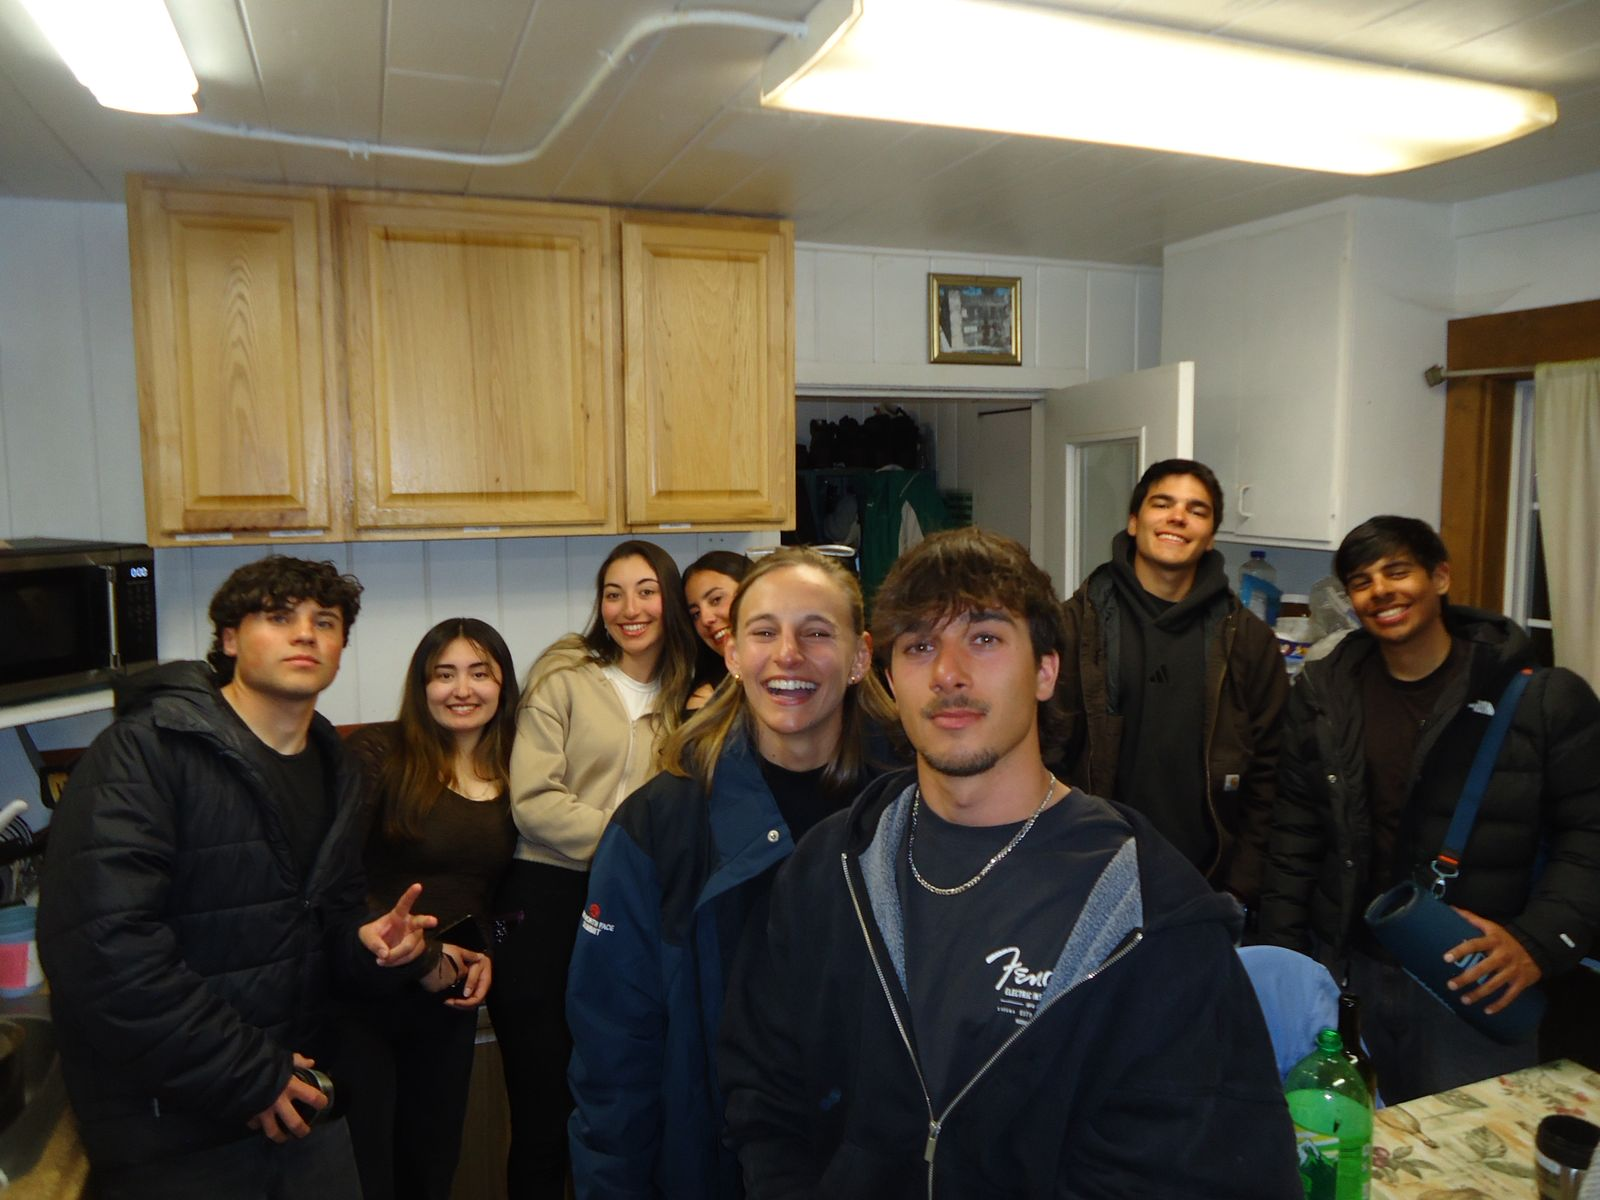
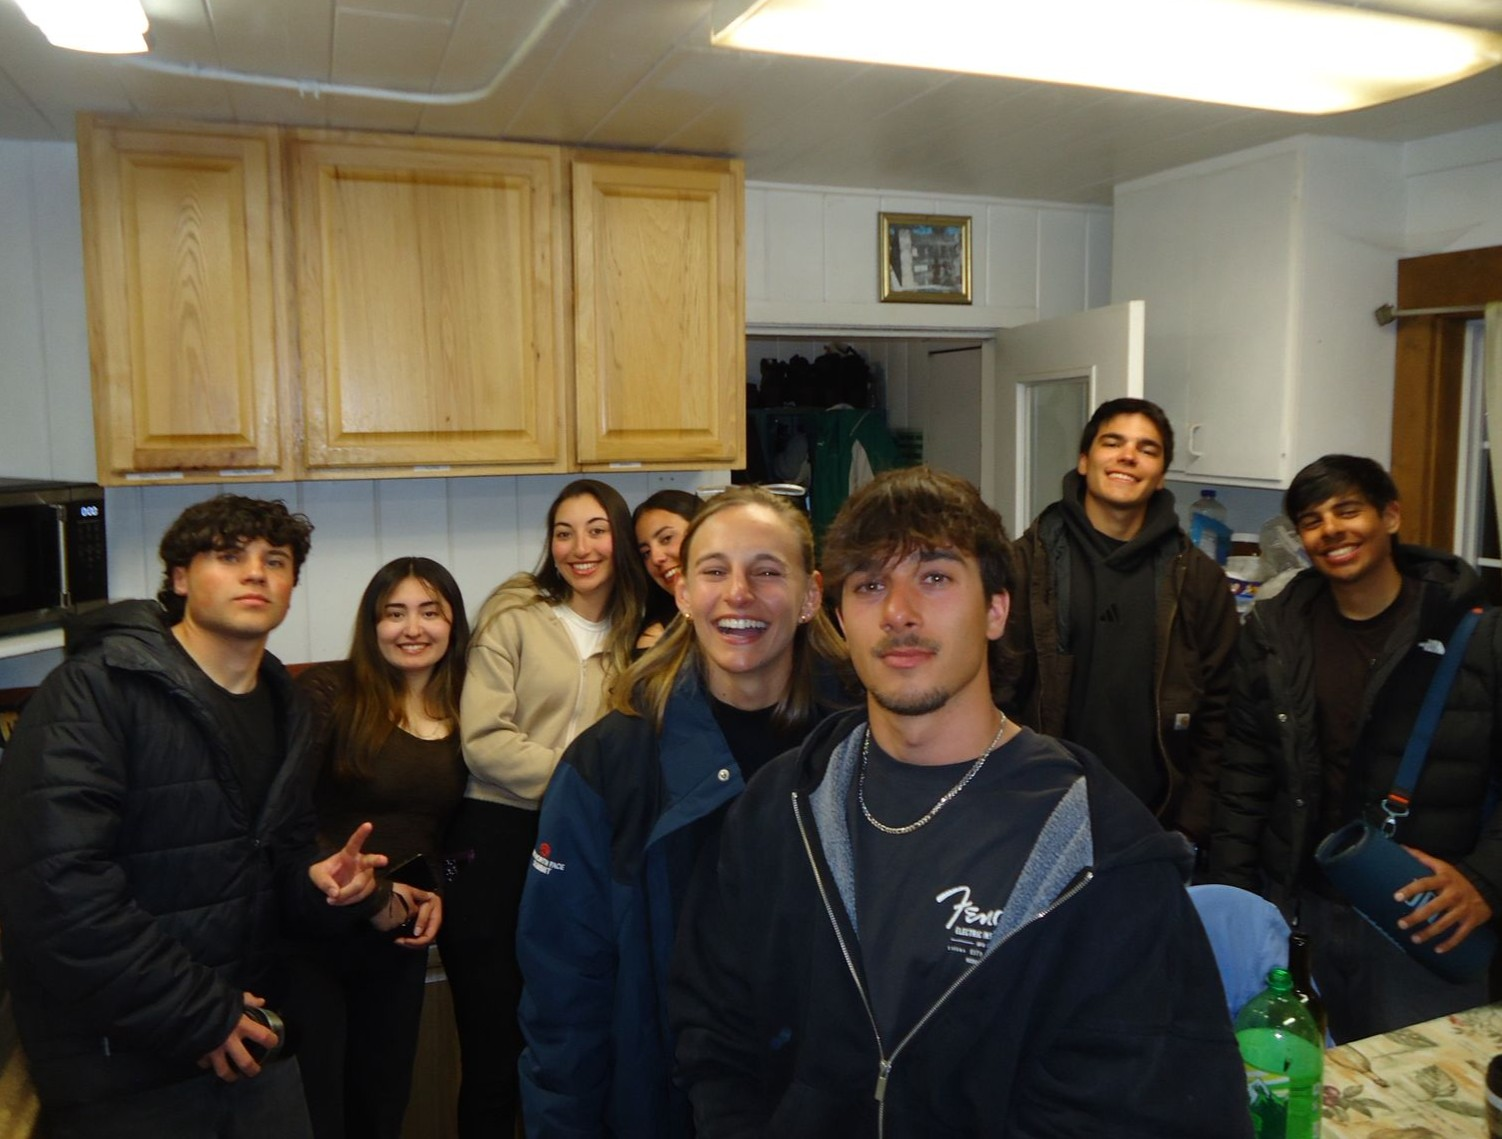
fix: carousel — remove dots, 7s interval, 1s fade, update cropped photos

diff --git a/app/page.tsx b/app/page.tsx
@@ -59,7 +59,7 @@ function ImageCarousel() {
   useEffect(() => {
     const timer = setInterval(() => {
       setCurrent((c) => (c + 1) % CAROUSEL_IMAGES.length);
-    }, 4000);
+    }, 7000);
     return () => clearInterval(timer);
   }, []);
 
@@ -75,23 +75,10 @@ function ImageCarousel() {
           src={src}
           alt=""
           aria-hidden="true"
-          className="absolute inset-0 w-full h-full object-cover transition-opacity duration-700"
+          className="absolute inset-0 w-full h-full object-cover transition-opacity duration-1000"
           style={{ opacity: i === current ? 1 : 0 }}
         />
       ))}
-      {/* Dot indicators */}
-      <div className="absolute bottom-2 left-0 right-0 flex justify-center gap-1.5">
-        {CAROUSEL_IMAGES.map((_, i) => (
-          <button
-            key={i}
-            onClick={() => setCurrent(i)}
-            aria-label={`Foto ${i + 1}`}
-            className={`w-1.5 h-1.5 rounded-full transition-all duration-300 ${
-              i === current ? "bg-white scale-125" : "bg-white/50"
-            }`}
-          />
-        ))}
-      </div>
     </div>
   );
 }
